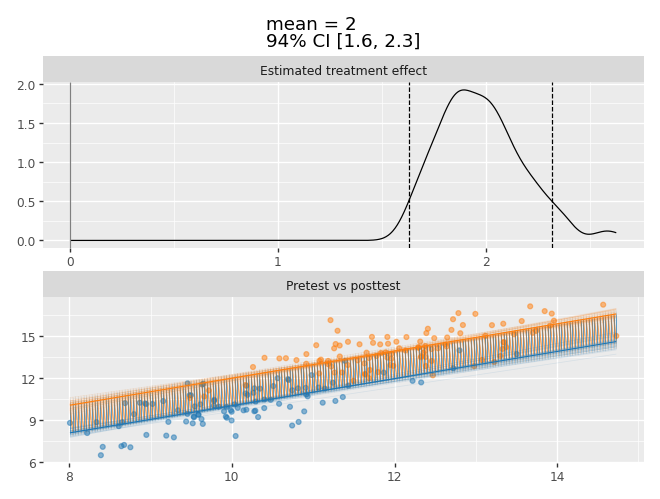
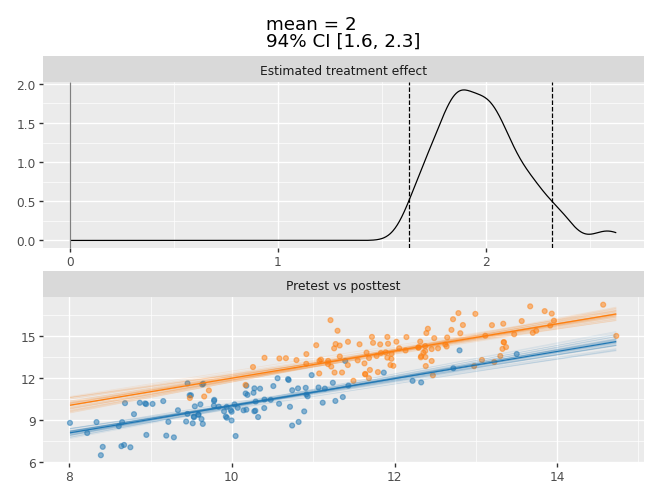
Fix PrePostNEGD spaghetti lines connecting control and treatment draws (#988)
geom_line(group="_draw_id") merged control and treatment posterior samples that share chain/draw ids at the same pretest x, producing vertical comb artifacts. Use per-series _line_id and sort by draw then pre.

Changed region(s): [[0.0909, 0.6012, 0.9394, 0.8717]]

diff --git a/causalpy/experiments/prepostnegd.py b/causalpy/experiments/prepostnegd.py
@@ -510,7 +510,7 @@ class PrePostNEGD(BaseExperiment):
             )
             ids = tagged.select("_draw_id").unique()
             chosen = ids.sample(n=min(num_samples, ids.height), seed=42)
-            return tagged.join(chosen, on="_draw_id").sort("pre")
+            return tagged.join(chosen, on="_draw_id").sort(["_draw_id", "pre"])
 
         def _band_spaghetti(pred, series):
             newdata = pd.DataFrame({"pre": np.asarray(self.pred_xi)})
@@ -518,12 +518,13 @@ class PrePostNEGD(BaseExperiment):
             draws = td.prediction_draws(
                 pred, newdata=newdata, var_name="mu", idata_group="posterior_predictive"
             )
-            return (
+            sampled = (
                 _sample_draw_lines(draws, num_samples)
                 .to_pandas()
                 .rename(columns={"pre": "_x", "mu": "_y"})
-                .assign(series=series, panel=top)
             )
+            sampled["_line_id"] = f"{series}_" + sampled["_draw_id"].astype(str)
+            return sampled.assign(series=series, panel=top)
 
         bands = pd.concat(
             [
@@ -595,7 +596,7 @@ class PrePostNEGD(BaseExperiment):
                 p
                 + geom_line(
                     spaghetti_df,
-                    aes("_x", "_y", group="_draw_id", color="series"),
+                    aes("_x", "_y", group="_line_id", color="series"),
                     alpha=0.1,
                     size=0.3,
                     show_legend=False,